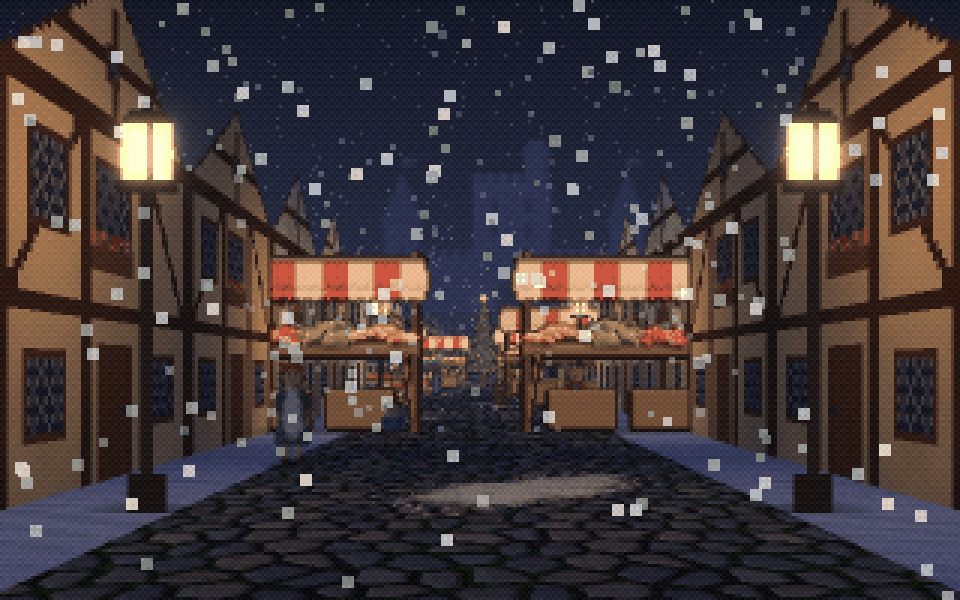
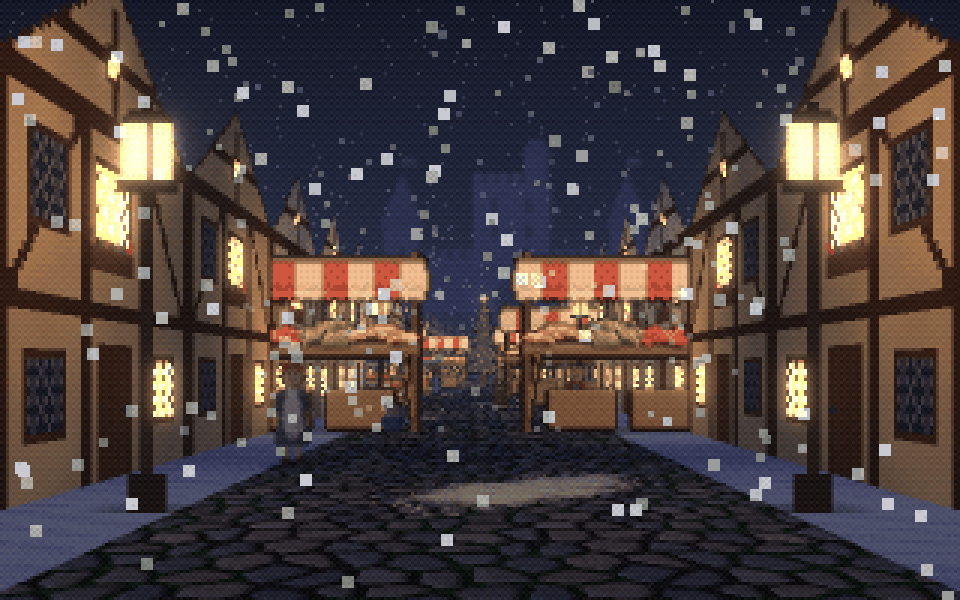
Timber houses at night: their windows lit
The half-timbered house faces take `lit`: most of their leaded
windows lit warm, and they glow. Three night faces in the three
plasters (`timber_house_night`, `_b`, `_c`); the winter market's
street uses them, so the houses glow along it in the snow. The day
faces are unchanged.

diff --git a/scripts/highway.py b/scripts/highway.py
@@ -3979,11 +3979,11 @@ def spr_island_falls():
 
 # ------------------------------------------------------------------ the market ride
 
-def tex_timber_house(name, plaster=(0.9, 0.86, 0.74)):
+def tex_timber_house(name, plaster=(0.9, 0.86, 0.74), lit=False):
     """A half-timbered house's face for a medieval street, gable and all, for walls in `blocks` one tile wide and
     one tall: plaster (`plaster`) between dark oak posts, beams and braces, leaded windows - a box of flowers under
     one - a plank door; the gable at the top against the sky (see-through round it), its king post and its little
-    window. The gables make the street's skyline."""
+    window. The gables make the street's skyline. `lit`: at night, most of its windows lit warm (they glow)."""
     rng = _rng(name)
     yy, xx = np.mgrid[0:T, 0:T]
     p = np.array(plaster, np.float32)
@@ -4005,10 +4005,12 @@ def tex_timber_house(name, plaster=(0.9, 0.86, 0.74)):
         beam |= (yy >= 21) & (yy < 42) & (t >= 0) & (t <= 1) & (np.abs(yy - (21 + t * 20)) < 1.3) & (x0 == 44)
     rgb[beam] = oak[beam]
     glass = np.zeros((T, T), bool)
+    panes = []
     for x0, y0, wd, ht in ((7, 24, 11, 11), (25, 24, 13, 11), (46, 48, 11, 10), (6, 48, 11, 10), (29, 9, 5, 5)):
         win = (xx >= x0) & (xx < x0 + wd) & (yy >= y0) & (yy < y0 + ht)
         rim = win & ((xx == x0) | (xx == x0 + wd - 1) | (yy == y0) | (yy == y0 + ht - 1))
         glass |= win & ~rim
+        panes.append(win & ~rim)
         rgb[rim] = oak[rim] * 1.2
     lead = (((xx + yy) % 4) == 0) | (((xx - yy) % 4) == 0)
     rgb[glass] = np.where(lead[glass][:, None], [0.42, 0.42, 0.44], [0.14, 0.16, 0.22])
@@ -4019,7 +4021,17 @@ def tex_timber_house(name, plaster=(0.9, 0.86, 0.74)):
     door = (xx >= 26) & (xx < 38) & (yy >= 47)                                      # the door, in planks
     rgb[door] = np.array([0.36, 0.22, 0.12]) * (0.85 + 0.15 * ((xx[door] % 3) != 0))[:, None]
     rgb[door & (yy == 55) & (xx > 34)] = [0.2, 0.2, 0.22]
-    return np.clip(rgb, 0, 1), None, inside.astype(np.float32)
+    if not lit:
+        return np.clip(rgb, 0, 1), None, inside.astype(np.float32)
+    em = np.zeros((T, T), np.float32)
+    lamp = _rng(name + ' lamps')                                                    # which windows are lit
+    for pane in panes:
+        if lamp.random() < 0.8:
+            warm = pane & ~lead
+            rgb[warm] = [0.98, 0.76, 0.4]
+            rgb[pane & lead] = [0.34, 0.24, 0.16]
+            em[warm] = 0.9
+    return np.clip(rgb, 0, 1), em, inside.astype(np.float32)
 
 
 def spr_horse_neck():
@@ -4382,7 +4394,10 @@ TEXTURES.update({'tower_windows': lambda n: tex_tower_windows(n), 'tower_windows
                  'timber_house': lambda n: tex_timber_house(n),
                  'timber_house_b': lambda n: tex_timber_house(n, (0.88, 0.74, 0.5)),
                  'timber_house_c': lambda n: tex_timber_house(n, (0.9, 0.74, 0.7)),
-                 'lavender_field': lambda n: tex_lavender_field(n)})
+                 'lavender_field': lambda n: tex_lavender_field(n),
+                 'timber_house_night': lambda n: tex_timber_house(n, lit=True),
+                 'timber_house_night_b': lambda n: tex_timber_house(n, (0.88, 0.74, 0.5), lit=True),
+                 'timber_house_night_c': lambda n: tex_timber_house(n, (0.9, 0.74, 0.7), lit=True)})
 TEXTURE_NOISE.update({'tower_windows': 0.4, 'tower_windows_b': 0.4, 'shopfront': 0.4, 'shopfront_b': 0.4,
                       'shopfront_c': 0.4, 'coaster_track': 0.2, 'coaster_frame': 0.2, 'rail_track': 0.6,
                       'grandstand': 0.3, 'suspension_cables': 0.0, 'canal_house': 0.3, 'canal_house_b': 0.3,
@@ -4392,7 +4407,8 @@ TEXTURE_NOISE.update({'tower_windows': 0.4, 'tower_windows_b': 0.4, 'shopfront':
                       'wheat_field': 0.3, 'western_front': 0.4, 'western_front_b': 0.4, 'western_front_c': 0.4,
                       'tunnel_cables': 0.6, 'metro_tiles': 0.2, 'ruined_tower': 0.5, 'ruined_tower_b': 0.5,
                       'townhouse': 0.3, 'townhouse_b': 0.3, 'townhouse_c': 0.3,
-                      'timber_house': 0.3, 'timber_house_b': 0.3, 'timber_house_c': 0.3, 'lavender_field': 0.2})
+                      'timber_house': 0.3, 'timber_house_b': 0.3, 'timber_house_c': 0.3, 'lavender_field': 0.2,
+                      'timber_house_night': 0.3, 'timber_house_night_b': 0.3, 'timber_house_night_c': 0.3})
 VARIANTS = {'traffic_light': (3, _traffic_light), 'car_compact': (4, _car_compact), 'car_sedan': (4, _car_sedan),
             'billboard': (3, _billboard), 'race_car': (4, _race_car), 'car_oncoming': (4, _car_oncoming),
             'mooring_pole': (3, _mooring_pole), 'slalom_gate': (2, _slalom_gate), 'gumdrop': (4, _gumdrop),

diff --git a/examples/winter_market.py b/examples/winter_market.py
@@ -2,10 +2,10 @@
 in the snow, the half-timbered houses' windows lit, market stalls glowing along both sides, people out among them,
 the town's great fir dressed with lights in the square ahead, the castle lit on its hill.
 
-The market ride's street at night: `cobble` under `snow` drifts, the `timber_house` walls in `blocks`; the stalls
-(`market_stall`, `fruit_stall`) with warm `light`s, `lamp_post`s; the townspeople (`villager`, `child`, `farmer`,
-`monk`); the `christmas_tree` in the square (its lights glow); the `castle_hill` far off, `fullbright` with its own
-lights in the dark; snow falling, a `night` sky.
+The market ride's street at night: `cobble` under `snow` drifts, the houses `timber_house_night` (their windows
+lit) in `blocks`; the stalls (`market_stall`, `fruit_stall`) with warm `light`s, `lamp_post`s; the townspeople
+(`villager`, `child`, `farmer`, `monk`); the `christmas_tree` in the square (its lights glow); the `castle_hill` far
+off, tinted to the night; snow falling, a `night` sky.
 Run:  python winter_market.py  -> writes winter_market.json next to this file.
 """
 import os
@@ -27,7 +27,7 @@ def winter_market():
         'bands': 0.0,
         'ground': [{'width': WALK, 'texture': SNOWY}, {'texture': SNOWY}],
         'walls': [{'side': 'both', 'offset': WALK, 'height': 2.6, 'tile': [2.0, 2.6], 'blocks': 2.0, 'seed': 3,
-                   'texture': ['timber_house', 'timber_house_b', 'timber_house_c']}],
+                   'texture': ['timber_house_night', 'timber_house_night_b', 'timber_house_night_c']}],
         'distance': 120,
     }
     roadside = [

diff --git a/docs/ASSETS.md b/docs/ASSETS.md
@@ -21,7 +21,7 @@ The smoke test fails while this file is out of date. Sheets show textures tiled 
 <!-- summary -->
 | | count | good | polish | rework | new |
 |---|---|---|---|---|---|
-| Textures | 283 | 283 | 0 | 0 | 0 |
+| Textures | 286 | 286 | 0 | 0 | 0 |
 | Props | 463 | 463 | 0 | 0 | 0 |
 | Characters | 33 | 33 | 0 | 0 | 0 |
 | Decals | 42 | 42 | 0 | 0 | 0 |
@@ -40,7 +40,7 @@ The smoke test fails while this file is out of date. Sheets show textures tiled 
 | Post presets | 20 | 20 | 0 | 0 | 0 |
 | Palettes | 9 | 9 | 0 | 0 | 0 |
 | Example scenes | 166 | 166 | 0 | 0 | 0 |
-| **all** | **1192** | **1192** | **0** | **0** | **0** |
+| **all** | **1195** | **1195** | **0** | **0** | **0** |
 <!-- /summary -->
 
 ## Pass plan
@@ -69,7 +69,7 @@ New scenes:
 - [x] Inside a mine, in the same wild west. Done: `gold_mine` - a tunnel timbered in 3D, `rails` and an `ore_cart`, lanterns, a prospector at a vein of gold, the portal in the hillside.
 - [x] Inside the jungle temple. Done: `temple_inside` - a passage of carved stone to the idol of the jaguar in a shaft of light, an explorer reaching for it, treasure.
 
-## Textures (283)
+## Textures (286)
 
 64x64 tiles, drawn in code. "glows" means the texture lights itself (windows, screens, runes), "see-through" that the map shows through its holes, "mirror" that floors made of it reflect.
 
@@ -414,10 +414,13 @@ Walls along a road scene's road, and its see-through surfaces (highway.py).
 | `townhouse` | good |  | hill_street | A painted townhouse's face: lavender clapboard, a bay window on each floor in white trim, a few lit, a cornice along the top. Two floors to a tile, for walls in `blocks`. |
 | `townhouse_b` | good |  | hill_street | The same in mint. |
 | `townhouse_c` | good |  | hill_street | The same in cream. |
-| `timber_house` | good | see-through | market_ride, winter_market | A half-timbered house's face, gable and all: cream plaster between dark oak posts, beams and braces, leaded windows, a box of flowers, a plank door; see-through round the gable, so a street of them in `blocks` one tile each has a skyline of gables. |
-| `timber_house_b` | good | see-through | market_ride, winter_market | The same in ochre plaster. |
-| `timber_house_c` | good | see-through | market_ride, winter_market | The same in rose plaster. |
+| `timber_house` | good | see-through | market_ride | A half-timbered house's face, gable and all: cream plaster between dark oak posts, beams and braces, leaded windows, a box of flowers, a plank door; see-through round the gable, so a street of them in `blocks` one tile each has a skyline of gables. |
+| `timber_house_b` | good | see-through | market_ride | The same in ochre plaster. |
+| `timber_house_c` | good | see-through | market_ride | The same in rose plaster. |
 | `lavender_field` | good |  | lavender_ride | A field of lavender in flower: rounded rows of grey-green bushes under purple spikes, four to a tile along the road, pale dry earth between; they close into purple bands to the horizon. |
+| `timber_house_night` | good | glows, see-through | winter_market | The half-timbered house's face at night: most of its leaded windows lit warm, glowing; see-through round the gable as by day. |
+| `timber_house_night_b` | good | glows, see-through | winter_market | The same in ochre plaster. |
+| `timber_house_night_c` | good | glows, see-through | winter_market | The same in rose plaster. |
 
 ### Not yet sorted
 
@@ -1602,12 +1605,12 @@ The environments, judged on their gallery images and shots.
 | `torii_path` | good | 1 | road_torii | New: a road scene on a mountain shrine's path - walking up through a tunnel of red torii gates set one behind another, lanterns lit at their feet. Made from what the kits had: the gates in a close row over the path. |
 | `brass_city` | good | 1 | road_brass | New: a road scene in the clockwork city at sundown - walking its high street behind a brass tram, gears turning in the walls, gaslamps, airships overhead. Made from the clockwork kit and the new airships; the great clock first hung in the sky with no tower under it - it is on a front now. |
 | `reef_dive` | good | 1 | road_reef | New: a road scene on a coral reef - swimming behind your dive buddy, corals either side, a manta overhead, a whale shark passing. Made from the aquarium's kit; where the surface ended the sky showed as a band until the fog took it all (`sky_mix` 1.0). |
-| `winter_market` | good | 1 | road_winter_market | New: a road scene in the medieval town on a snowy night - the market stalls lit, people out, the great fir aglow in the square. Made from the kits; the houses' windows stay dark (their texture has no glow). |
+| `winter_market` | good | 1 | road_winter_market | New: a road scene in the medieval town on a snowy night - the market stalls lit, people out, the great fir aglow in the square. Made from the kits; the houses' windows were dark until the timber houses had night faces, windows lit. |
 
 ## Pass log
 
 - **2026-10-19, pass 0.** First full review of every asset, on review sheets and in the gallery. This file and `docs/asset_review.py` were added.
-- **2026-10-23, the roads loop.** Eight hours on road scenes while the user rested: verges scattered and roads marked (`scatter` and `decals` for roads); walls along the road (rails, cliffs, canyons, streets of buildings in `blocks`), ceilings, land far `below` a drop; reflections (water, wet streets, puddles: the sky, the props and the walls mirrored); vehicles that carry a light or lay a wake; see-through road surfaces. Road furniture, off-road vehicles, boats, the neon city's cars and facades, a coaster, a mine, a starfighter, race cars and a grandstand; the traffic and the billboard drawn a few ways; an oncoming car, a motel sign, a gas station; a suspension bridge's towers and cables, a dark castle; canal houses, a gondola, mooring poles, a humped bridge, washing; a ski run's piste, net, chairlift, gates, skier and ski tips; a lane of light over a city at night, a moon buggy, craters; a steam engine's boiler from the footplate, telegraph poles; tulip fields, a windmill, a cyclist, handlebars; runway lights, a control tower, an airliner, a cockpit; a shack on stilts, a camel and your own camel's head, a pyramid; peppermint, frosting, candy canes, lollipops, gumdrops, a gingerbread house; a skeleton and a ghost-train car; cherry trees, a shrine gate, a lone snowy peak; wheat, a tornado, a barn, a pickup; a mini sub, light shafts, a porthole; a dog team, a log cabin; a galleon, a sea fort, a bowsprit; acacias, giraffes, elephants, zebras; a flying saucer, its beam, a cow; a big wheel, a carousel; false fronts, a horse; a lighthouse and its beam; an erupting volcano; a metro tunnel and station, a signal, a cab; ruined towers; a log boat; prayer flags, a stupa; a balloon basket; a tractor and a hay wagon, a sleigh and its horse, a Christmas tree; painted townhouses and a tram; a dragon to ride and dragons on the wing; wrecked cars and a broken overpass; a water taxi; a floating lantern; a rocket on its pad; airships, an airship's deck and falls off a floating island; half-timbered houses, a horse from the saddle and a castle on its hill; a giant redwood; a raft; an asteroid; dinosaurs; a longship's deck and prow; living bamboo; lavender fields and a scooter's handlebars; glowing road surfaces and ground bands of `void`; the `speed` post effect. Seventy-nine new road scenes: mountain_pass, canyon_run, island_run, canal_boat, neon_race, neon_avenue, roller_coaster, synthwave_drive, desert_highway, winter_road, mine_ride, space_trench, grand_prix, ice_road, desert_motel, sea_tunnel, viaduct_train, jungle_river, autumn_lane_road, rain_motorway, suspension_bridge, dark_road, rope_bridge, underworld_river, night_canal, ski_run, sky_lane, moon_drive, tulip_ride, night_runway, bayou_run, camel_caravan, candy_road, ghost_train, blossom_road, storm_chase, kelp_run, ring_station, sled_run, high_seas, safari_drive, close_encounter, night_fair, high_noon, storm_coast, volcano_road, metro_ride, drowned_city, log_flume, pilgrim_path, balloon_flight, hayride, sleigh_ride, hill_street, red_planet, ice_cave, dragon_flight, overgrown_highway, neon_canal, lantern_river, launch_day, airship_voyage, market_ride, night_pass, redwood_road, canyon_rapids, salt_mirror, asteroid_field, lost_valley, midnight_ride, fjord_voyage, torii_path, bamboo_path, lavender_ride, ghost_ship, cattle_drive, reef_dive, brass_city, winter_market. The night runway now takes off at nightfall (at full night it was a dark band under the cockpit). The viaduct is now seen from the footplate; scrub clings to the mountain pass's cliff.
+- **2026-10-23, the roads loop.** Eight hours on road scenes while the user rested: verges scattered and roads marked (`scatter` and `decals` for roads); walls along the road (rails, cliffs, canyons, streets of buildings in `blocks`), ceilings, land far `below` a drop; reflections (water, wet streets, puddles: the sky, the props and the walls mirrored); vehicles that carry a light or lay a wake; see-through road surfaces. Road furniture, off-road vehicles, boats, the neon city's cars and facades, a coaster, a mine, a starfighter, race cars and a grandstand; the traffic and the billboard drawn a few ways; an oncoming car, a motel sign, a gas station; a suspension bridge's towers and cables, a dark castle; canal houses, a gondola, mooring poles, a humped bridge, washing; a ski run's piste, net, chairlift, gates, skier and ski tips; a lane of light over a city at night, a moon buggy, craters; a steam engine's boiler from the footplate, telegraph poles; tulip fields, a windmill, a cyclist, handlebars; runway lights, a control tower, an airliner, a cockpit; a shack on stilts, a camel and your own camel's head, a pyramid; peppermint, frosting, candy canes, lollipops, gumdrops, a gingerbread house; a skeleton and a ghost-train car; cherry trees, a shrine gate, a lone snowy peak; wheat, a tornado, a barn, a pickup; a mini sub, light shafts, a porthole; a dog team, a log cabin; a galleon, a sea fort, a bowsprit; acacias, giraffes, elephants, zebras; a flying saucer, its beam, a cow; a big wheel, a carousel; false fronts, a horse; a lighthouse and its beam; an erupting volcano; a metro tunnel and station, a signal, a cab; ruined towers; a log boat; prayer flags, a stupa; a balloon basket; a tractor and a hay wagon, a sleigh and its horse, a Christmas tree; painted townhouses and a tram; a dragon to ride and dragons on the wing; wrecked cars and a broken overpass; a water taxi; a floating lantern; a rocket on its pad; airships, an airship's deck and falls off a floating island; half-timbered houses (by day and with their windows lit at night), a horse from the saddle and a castle on its hill; a giant redwood; a raft; an asteroid; dinosaurs; a longship's deck and prow; living bamboo; lavender fields and a scooter's handlebars; glowing road surfaces and ground bands of `void`; the `speed` post effect. Seventy-nine new road scenes: mountain_pass, canyon_run, island_run, canal_boat, neon_race, neon_avenue, roller_coaster, synthwave_drive, desert_highway, winter_road, mine_ride, space_trench, grand_prix, ice_road, desert_motel, sea_tunnel, viaduct_train, jungle_river, autumn_lane_road, rain_motorway, suspension_bridge, dark_road, rope_bridge, underworld_river, night_canal, ski_run, sky_lane, moon_drive, tulip_ride, night_runway, bayou_run, camel_caravan, candy_road, ghost_train, blossom_road, storm_chase, kelp_run, ring_station, sled_run, high_seas, safari_drive, close_encounter, night_fair, high_noon, storm_coast, volcano_road, metro_ride, drowned_city, log_flume, pilgrim_path, balloon_flight, hayride, sleigh_ride, hill_street, red_planet, ice_cave, dragon_flight, overgrown_highway, neon_canal, lantern_river, launch_day, airship_voyage, market_ride, night_pass, redwood_road, canyon_rapids, salt_mirror, asteroid_field, lost_valley, midnight_ride, fjord_voyage, torii_path, bamboo_path, lavender_ride, ghost_ship, cattle_drive, reef_dive, brass_city, winter_market. The night runway now takes off at nightfall (at full night it was a dark band under the cockpit). The viaduct is now seen from the footplate; scrub clings to the mountain pass's cliff.
 - **2026-10-23, road scenes.** The user's idea: a second renderer, the road of an 80s arcade racer - a scene with a `road` instead of a `map` (scripts/road.py): segments that bend and rise, projected from the camera outward so a crest hides what is beyond, the bands, lanes, kerbs and shoulders, the ground in bands or `void`, props along it by spacing or density (`roadside`), lamps and headlights, `roofs` for tunnels, a shot's `vehicle`, `roll` with the vehicle level; finished by the same post, GUI and palette (render.finish_world, render.make_renderer). The `highway` kit: `sports_car`, `car_compact`, `car_sedan`, `box_truck`, `curve_sign`, `billboard`, `checkpoint`, `traffic_cone`, `tunnel_ring`, `tunnel_portal`. Scenes `coast_road`, `night_highway`, `forest_path`, `jungle_trail`, `enchanted_path` and `sky_road`.
 - **2026-10-23, where it started.** The user's idea: the three drawings this project began from - concept art Claude drew out of plain shapes in a chat, for a game - made into scenes and set beside them in the README (the drawings are in `docs/origins`). `scripts/spooky.py`: `vault_arch`, `broken_casement`, `tattered_curtain`, `rose_bush`, `robed_statue`, `wall_lamp`, `iron_cabinet`, `punt` and `storm_cloud`; decals `glass_shards` and `sigil`. Scenes `storm_island` (landscape scale: a hill and its house, the town on the shore, a plateau of buildings, the lighthouse, a storm), `window_garden` (the garden through a broken casement) and `canal_tunnel` (a boat moored under a brick vault, and a shot from it).
 - **2026-10-22, the landscapes loop.** The user's three hours: the kaiju redrawn where it was wrong (the jaw hinged into the neck, no gap; the legs under the hips so the belly shows whole; thin surf), the mountains' points rounded into crowns (and `top` for mesas). New: the `cable` object, country roads (`road_ew`, `road_ns`, `road_x`), and a volcano from the mountain - `crater`, `lava` flows, rock kinds `volcanic` and `lava`, textures `lava_field`, `lava_flow`, `black_sand`, the `ash_plume`; buttes from the mountain (`cliff`) and the desert's ground (`desert_floor` in three layouts, `desert_road`). New scenes `kaiju_country`, `volcano_island` and `mesa_desert`; a fifth kaiju_harbor shot, eye to eye with the monster. Then: winter (`snow_fields`, `snow_forest`, `frozen_lake`; a `village` takes `lit` and `snow`), the `bridge` object (`suspension`, `stone`), ships (`cargo_ship`, `ferry`, `sailboat`); scenes `winter_valley` and `strait_bridge`; a stone bridge by giant_valley's village. Last: the tropics (`ocean`, `lagoon`, `reef_flat`, `white_sand`, `palm_canopy`, rock `tropical`, a village's `roof`) and the `archipelago`; a rival for the kaiju, the `giant_moth`.

diff --git a/references/assets.md b/references/assets.md
@@ -6,7 +6,7 @@ Every texture, prop and character the renderer draws, by name: what each one is 
 
 Built-ins with emissive texels (glow regardless of lighting): `water_surface` (the sea's surface from below), `window_lit`, `window_lit_plaster`, `window_teal`, `canal_house`, `canal_house_b` and `canal_house_c` (old houses' faces over a canal at night, a few windows lit - their footing is `canal_footing`, pale stone gone green at the waterline), `city_night` (a city at night seen from far above, its avenues lit: the land `below` a road in the sky), `runes`, `stained_glass`, `lancet_window`, `rose_window`, `hull_lit` and `hull_red` (a light strip at eye height), `tech_panel` (readouts), `server` (status lights), `blast_door` (a warning light), `grid_floor` (glowing grid lines), `alien_rock` (glowing veins), `fireplace` (the fire), `star_chart` (the stars), `canopy` (light through the leaves, and sky in the gaps), `temple_door` (something burning inside), `conduit` (status lights on a junction box), `screen_wall` (a wall of monitors), `tunnel_roof` (the view up through an aquarium tunnel's roof: deep water, the bright surface far above, a seam of the acrylic at every tile), `jelly_backdrop` (the glowing blue back wall of a jelly tank), `open_water` and `deep_water` (the open water painted on the back of a big tank so the sea seems to go on, paler toward the surface: `open_water` stacked on `deep_water` on a wall two high), `bar_shelves` (bottles on two shelves, each lit from below, for the wall behind a bar), `capsules` and `capsules_lit` (a capsule hotel's berths, four to a unit, each with a glowing number plate and lamp-lit bedding, a drawn blind, a screen's glow or dark inside; `capsules_lit` has more of them occupied - alternate the two cell by cell), `nukage` (toxic slime in slow green swirls: sink it with `drop` and it lights the room from below), `city_street_lit` (street lamps and cars' lights, at landscape scale), `lava_field` (its cracks) and `lava_flow` (all of it), and for a road scene's street of buildings (walls with `blocks`) `tower_windows` and `tower_windows_b` (a tower's face at night: windows four across and four up to a tile, some lit warm, cool or neon) and `shopfront`, `shopfront_b`, `shopfront_c` (a shop at a building's foot: its window lit, a shutter half down, a sign outlined in a neon tube - pink, cyan, amber). Their dark counterparts are `window_dark`, `window_dark_plaster`.
 
-See-through built-ins (see See-through walls): `bars`, `fence_iron`, `chainlink`, `railing`, `picket`, `guard_rail`, `power_lines` and `coaster_frame` (for walls along a road scene's road - see Road scenes), `coaster_track` (a road scene's see-through `surface`: rails and ties; `rail_track` is the same on ballast, solid), `light_lane` (a lane of light: cyan lines a unit apart, magenta chevrons between - a glowing road `surface` for a road in the sky, see-through so the city shows below), `ski_fence` (the orange safety net along a ski run, its posts one to a tile), `chairlift` (a chairlift's cable and one chair to a tile hanging from it, two riding: a wall high over a run, `"tile": [4, 1.6]`, on `lift_tower`s), `suspension_cables` (a bridge's main cable sagging over one tile with its suspenders hanging from it, for a wall along the deck: `"tile": [span, height]`), `timber_house`, `timber_house_b` and `timber_house_c` (a half-timbered house's face in cream, ochre and rose plaster, see-through round its gable so a street of them has a skyline of gables - walls in `blocks` one tile each, see Road scenes), `portcullis`, `window_broken`, `lattice`, `viewport` (an observation window from just above the floor to just under the top: stack two for a glass wall two storeys tall), `tank_window` (a viewing window into an aquarium tank, in a deep frame of dark steel with rounded corners; stand a `glass_pane` just behind it and stack plain wall above), `green_window` (the doomed mode's green plating with a window cut through it), `roof_comb` (a temple's stone lattice crest), and the Doric colonnade: `colonnade` (one fluted column to a cell), `colonnade_top` (capital, architrave, triglyph frieze and cornice) and `colonnade_broken` (shafts snapped off at different heights). Stack them per storey: `["colonnade", "colonnade", "colonnade_top"]` with `h` 3 is an intact colonnade, `["colonnade", "colonnade_broken"]` a ruined one. Seen square-on a colonnade is convincing; seen along its length the columns are flat and thin, so for a row you look down, use `column` props instead. A PNG with transparent pixels behaves the same way.
+See-through built-ins (see See-through walls): `bars`, `fence_iron`, `chainlink`, `railing`, `picket`, `guard_rail`, `power_lines` and `coaster_frame` (for walls along a road scene's road - see Road scenes), `coaster_track` (a road scene's see-through `surface`: rails and ties; `rail_track` is the same on ballast, solid), `light_lane` (a lane of light: cyan lines a unit apart, magenta chevrons between - a glowing road `surface` for a road in the sky, see-through so the city shows below), `ski_fence` (the orange safety net along a ski run, its posts one to a tile), `chairlift` (a chairlift's cable and one chair to a tile hanging from it, two riding: a wall high over a run, `"tile": [4, 1.6]`, on `lift_tower`s), `suspension_cables` (a bridge's main cable sagging over one tile with its suspenders hanging from it, for a wall along the deck: `"tile": [span, height]`), `timber_house`, `timber_house_b` and `timber_house_c` (a half-timbered house's face in cream, ochre and rose plaster, see-through round its gable so a street of them has a skyline of gables - walls in `blocks` one tile each, see Road scenes), `timber_house_night`, `timber_house_night_b` and `timber_house_night_c` (the same at night, most of their windows lit and glowing), `portcullis`, `window_broken`, `lattice`, `viewport` (an observation window from just above the floor to just under the top: stack two for a glass wall two storeys tall), `tank_window` (a viewing window into an aquarium tank, in a deep frame of dark steel with rounded corners; stand a `glass_pane` just behind it and stack plain wall above), `green_window` (the doomed mode's green plating with a window cut through it), `roof_comb` (a temple's stone lattice crest), and the Doric colonnade: `colonnade` (one fluted column to a cell), `colonnade_top` (capital, architrave, triglyph frieze and cornice) and `colonnade_broken` (shafts snapped off at different heights). Stack them per storey: `["colonnade", "colonnade", "colonnade_top"]` with `h` 3 is an intact colonnade, `["colonnade", "colonnade_broken"]` a ruined one. Seen square-on a colonnade is convincing; seen along its length the columns are flat and thin, so for a row you look down, use `column` props instead. A PNG with transparent pixels behaves the same way.
 
 The built-ins also include gothic windows in pale stone, see-through between their leads (`tall_window`, ending in `tall_window_top`), castle and dungeon stone (`castle`, `flagstone`, `slime_brick`, `door_wood`), winter ground (`snow`, drifts with their lee sides in blue shadow; `ice`, `snow_rock`; `forest_deep_snow`, the deep wood with snow on its boughs, behind a `forest_snow` fringe), the desert (`sandstone` - beds of red, orange and cream standing out as ledges, streaked with varnish; stack it with bands of `sandstone_pale` for a canyon wall - `slot_rock`, the swept curves of a slot canyon, `desert_wash`, the sand and pebbles of a dry wash, and for a cliff dwelling `pueblo_stone` and `pueblo_door`, a T-shaped doorway), the Moon (`regolith`, grey dust pocked with craters), the sea floor (`seabed`, rippled sand under a net of caustic light; `water_surface`, the surface seen from below, glowing, for the roof of an underwater room; `reef_wall`, the rockwork at the back of a reef tank - live rock, coralline, coral heads, algae and polyps), a 1993 shooter's base (`hex_floor`, brown hexagonal tiles; `green_tech`, green plating in vertical strakes; `green_trim`, the same under a band of brown metal with a row of pale teeth, to stack storey on storey; `tech_ceiling`, ceiling tiles in a grid; `slime_edge`, brown plates stained green, for the `side` of a slime pit), the swamp (`swamp_water`, black water skinned with duckweed that mirrors; sink it with `drop` and give it a `bog` `side`; `bog`, peat and sphagnum; `swamp_deep`, grey trunks in the murk hung with moss, for the walls behind a `swamp` fringe), the wood in autumn (`forest_deep_autumn`, the dark between the trunks hung with turned leaves, for the walls behind a `forest_autumn` fringe, and `leaves_fallen` underfoot: leaves of every autumn colour over dark earth), starships (`hull`, `hull_dark`, `hazard`, `deck`, `hex_panel`, plus the lit ones above), alien and dream worlds (`alien_ground`, `organic` living walls, `sky_wall` painted with sky and clouds, `cloud_floor`, polished `obsidian`), a study's `fireplace` and `star_chart`, and a saloon's walls - `saloon_wainscot` under `saloon_paper`, the back bar `saloon_backbar` under `saloon_backbar_top`, `saloon_window` (open panes, see-through, so the sun comes in) - and its `tin_ceiling`; a glasshouse's `glasshouse` walls (open panes in white cast iron, see-through) and `encaustic` tiles; a mine's `mine_rock`, `mine_rock_vein` and `mine_rock_gold` (the gold glows a little, so a lamp seems to catch it). `python scripts/assets.py catalog.png` draws them all, with see-through textures over a checkerboard.
 

diff --git a/README.md b/README.md
@@ -829,7 +829,7 @@ Streaks draw the brightest lights out into the little cross of a star filter, or
 - **Post-processing**: colour grading, bloom (from the whole frame, or only from what gives off light - neon, windows, flames, fireflies, a held lantern, the sun - so it can glow hard), depth of field that focuses on the shot's subject and leaves its colours alone, streaks (the twinkle of a star filter on the brightest lights, or the long blue lines of an anamorphic lens), a lens flare from a sun in the frame, vignette, grain, lightning, letterbox, damage flash, fade, pixelate, posterize, gradient maps, retro palettes (Game Boy, CGA, EGA, amber, phosphor, sepia...), CRT curvature and shadow mask, VHS chroma bleed and tracking, chromatic aberration; 20 one-word presets
 - **Authoring tools**: a render report after every shot (too dark, blown out, a hidden or tiny subject, a wall in the lens, a camera inside a wall - each with a fix), `look_at` camera aiming, top-down layout maps with camera cones, contact sheets, a material catalog, and `maptools.Grid` for building maps in Python
 - **Pixel art drawn in code**: the jungle, ruins and beach are built from shapes - leaves, stones, planks, blades of grass, carved glyphs - stamped into a height field, lit from one direction, and snapped onto hue-shifted colour ramps with dark edges on their shadow sides (`scripts/pixelart.py`), so they read as pixel art rather than noise. The held items go a step further: each is a small 3D model - capsules for finger bones, cylinders and boxes for a revolver - posed in a hand, rendered from the player's eye and painted onto the same ramps with an outline (`scripts/sculpt.py`), so the perspective is right: the barrel runs away into the view and you see the back of your own hand
-- **No assets to download**: all 283 textures, 463 props, 33 characters, 42 decals, the skies and the font are generated in code, so the whole thing is a few hundred KB of Python
+- **No assets to download**: all 286 textures, 463 props, 33 characters, 42 decals, the skies and the font are generated in code, so the whole thing is a few hundred KB of Python
 
 ![Character cast](docs/gallery/cast.png)
 

diff --git a/references/recipes.md b/references/recipes.md
@@ -698,8 +698,8 @@ foot. See `examples/brass_city.py`.
 
 ### A winter market at night
 
-The market ride's street turned to a snowy night: `cobble` tinted cold, `snow` either side, the `timber_house`
-walls in `blocks`; the stalls with warm `light`s of their own (a roadside row's `light` lights every one), gaslit
+The market ride's street turned to a snowy night: `cobble` tinted cold, `snow` either side, the houses
+`timber_house_night` - their windows lit - in `blocks`; the stalls with warm `light`s of their own (a roadside row's `light` lights every one), gaslit
 `lamp_post`s; the townspeople; the `christmas_tree` in the square ahead with a light at its foot; the `castle_hill`
 tinted to the night; `snow` falling and bloom from the lights. See `examples/winter_market.py`.
 
